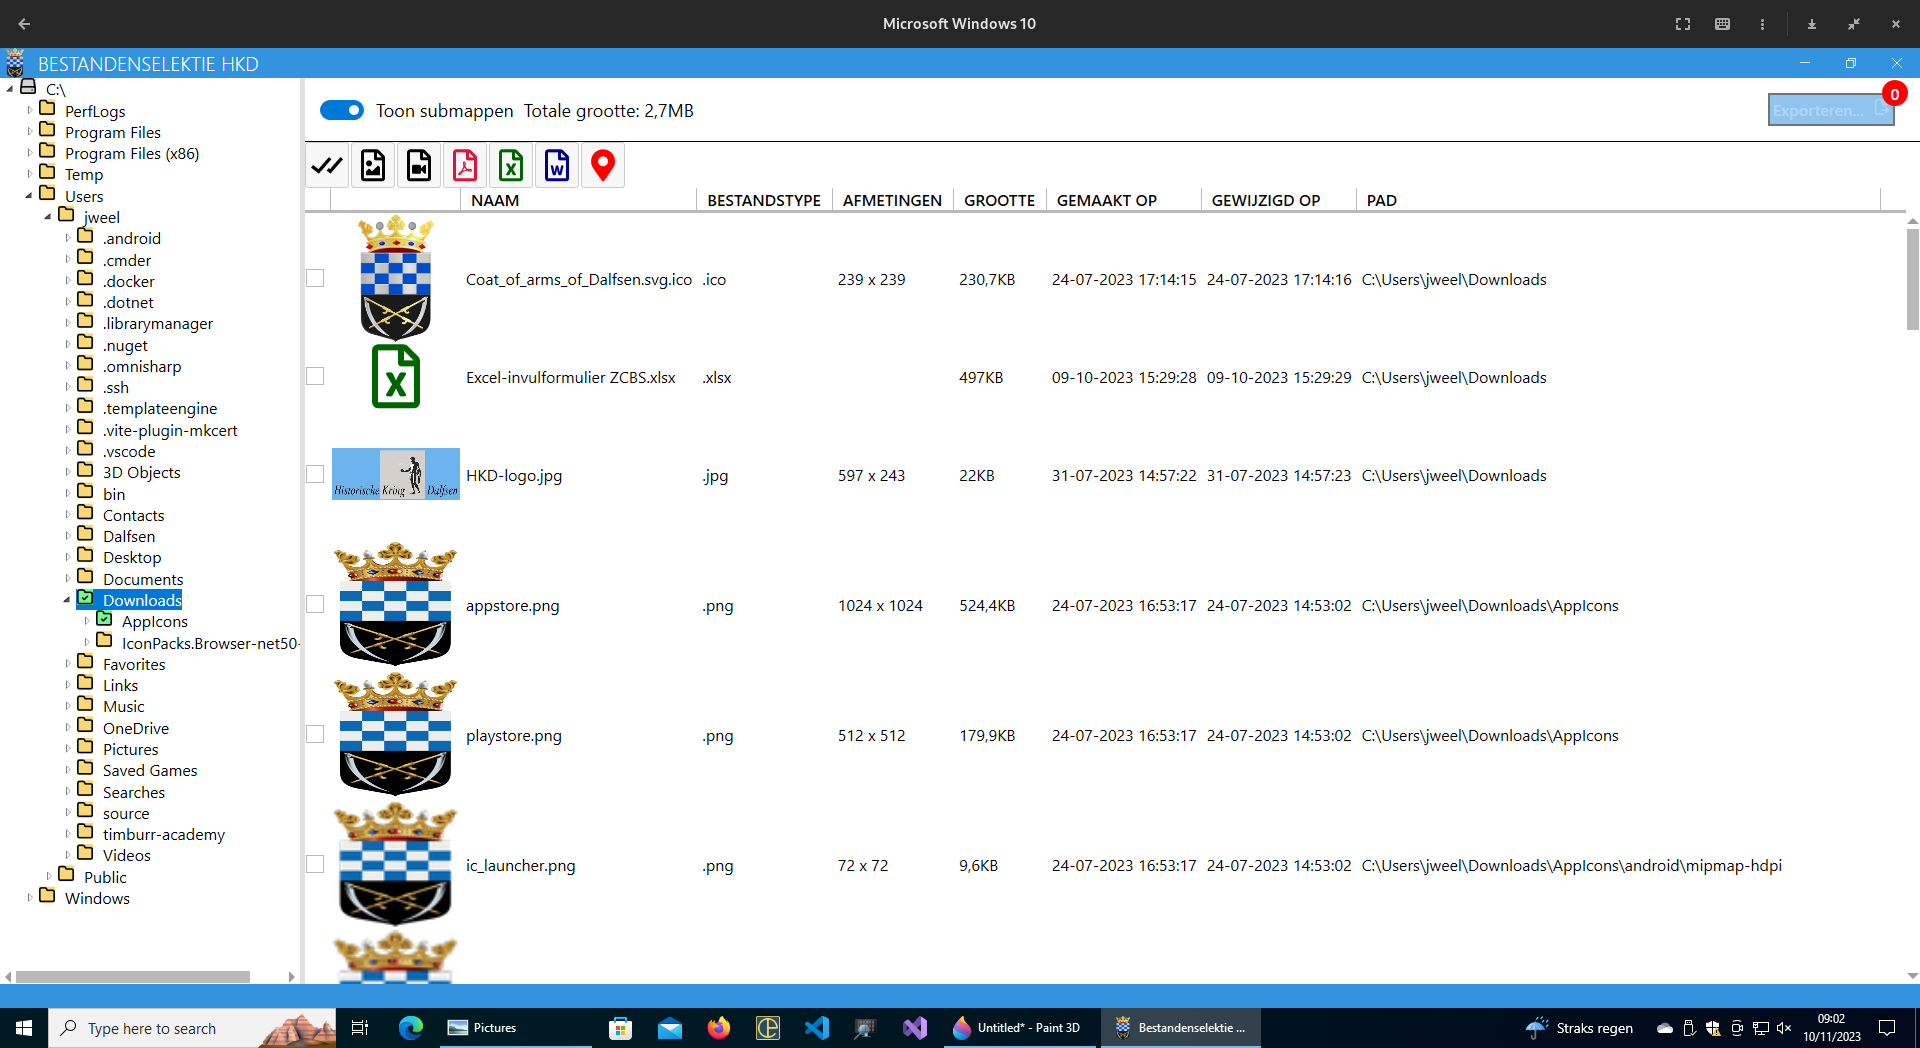
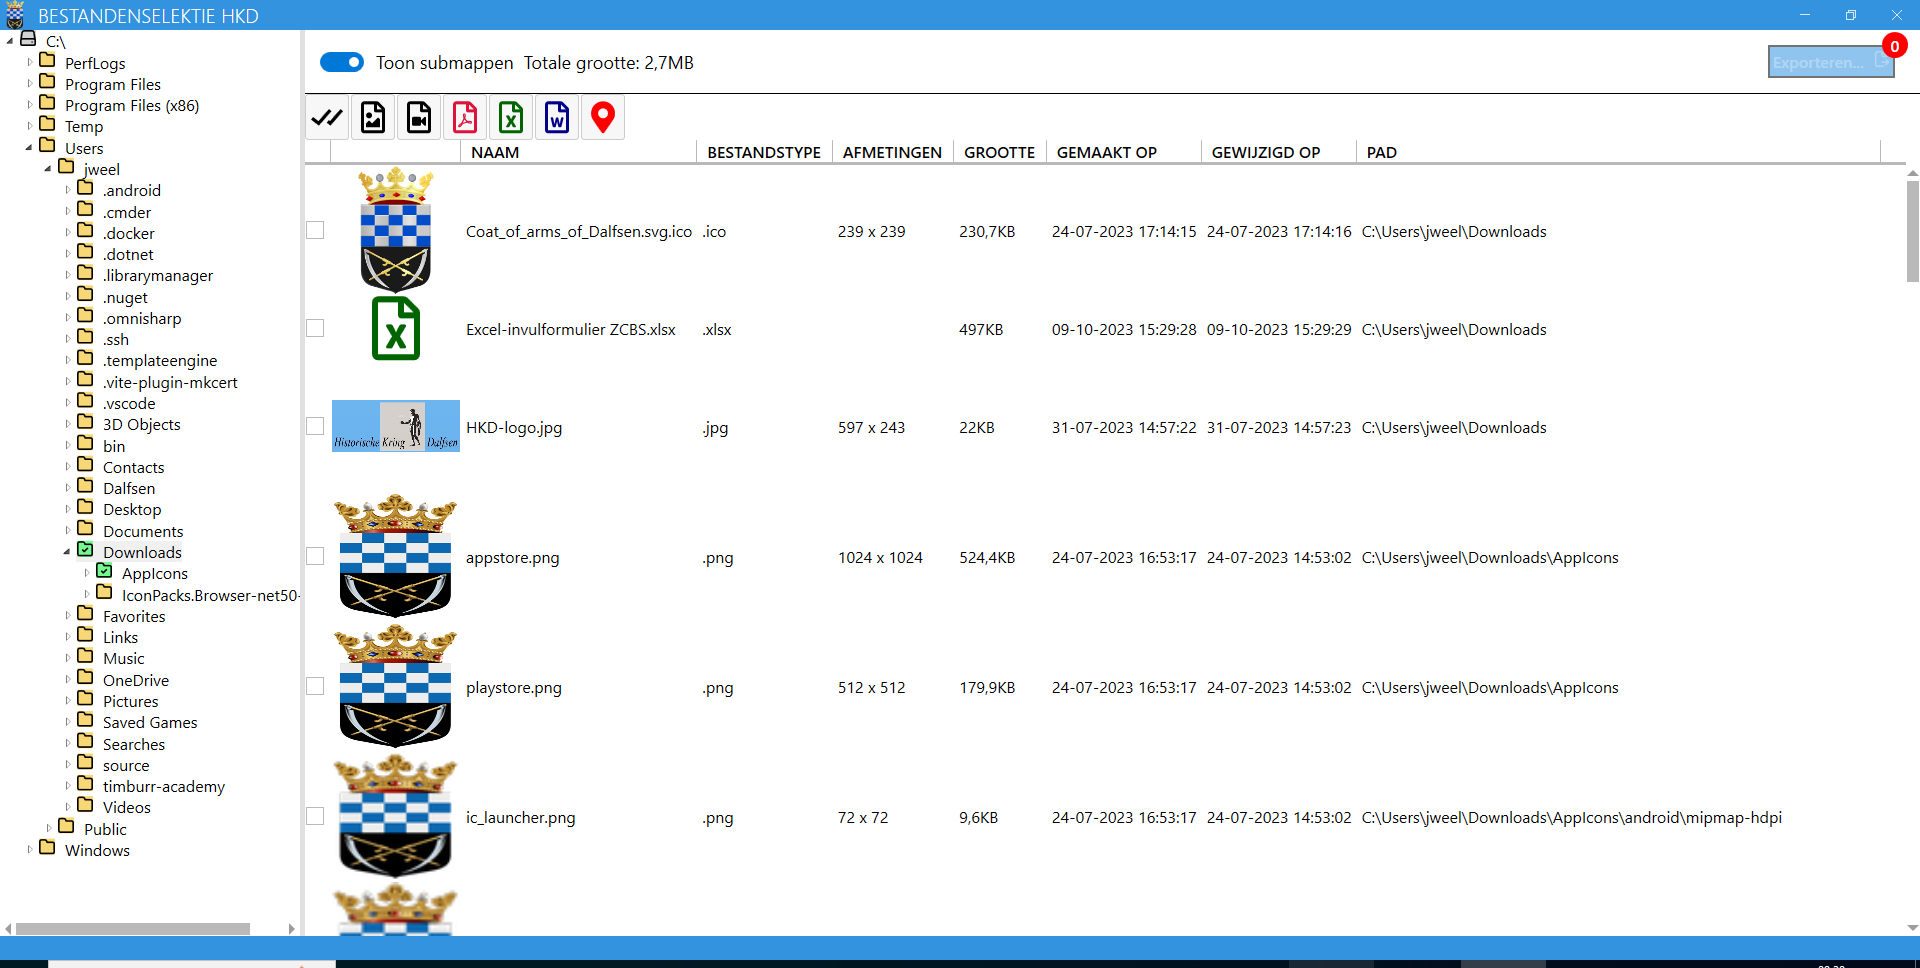
Verwijder taakbalk van screenshots

diff --git a/Bestandenselektie.HKD/ViewModels/ExporterViewModel.cs b/Bestandenselektie.HKD/ViewModels/ExporterViewModel.cs
@@ -105,10 +105,12 @@ namespace Bestandenselektie.HKD.ViewModels
                       $"Technische foutcode: {exception.TechnicalReason}";
 
                 MessageBox.Show(parent, message, "Expoteren", MessageBoxButton.OK, MessageBoxImage.Error);
+            } else if (e.Result is Exception exception2)
+            {
+                MessageBox.Show(parent, exception2.Message, "Expoteren", MessageBoxButton.OK, MessageBoxImage.Error);
             }
             else
             {
-                MessageBox.Show(parent, ((Exception)e.Result).Message, "Expoteren", MessageBoxButton.OK, MessageBoxImage.Error);
             }
         }
 
@@ -354,7 +356,7 @@ namespace Bestandenselektie.HKD.ViewModels
                         newRow.AppendChild(new Cell
                         {
                             DataType = CellValues.String,
-                            CellValue = new CellValue(file.Licentie)
+                            CellValue = new CellValue(file.Licentie ?? string.Empty)
                         });
 
                         newRow.Append(GenerateEmpty(6));
